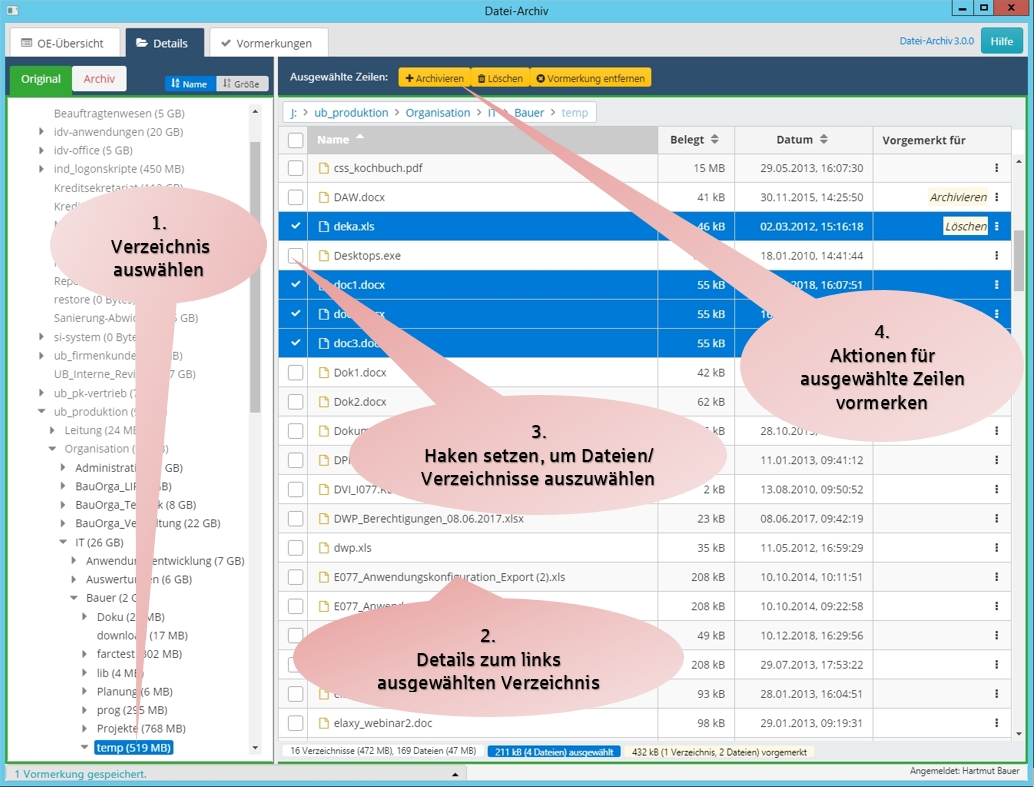
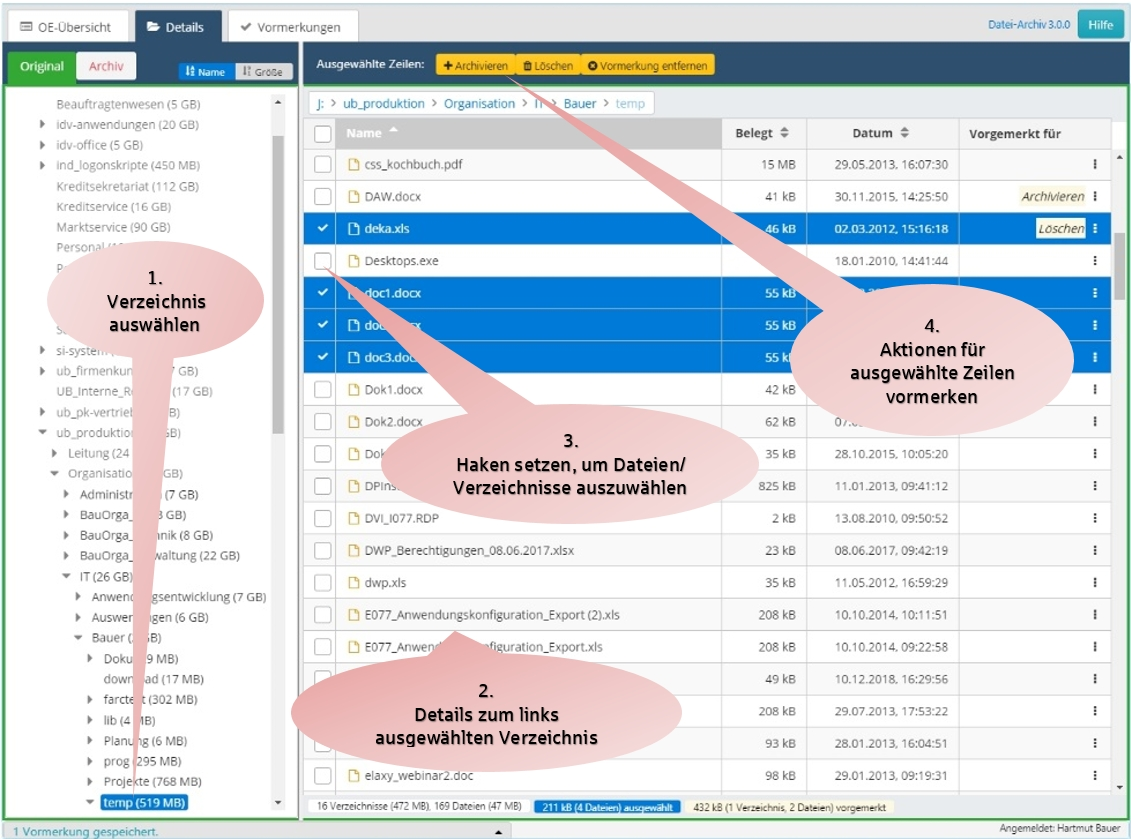
Hilfetexte

diff --git a/src/app/help/helpvorm/helpvorm.component.html b/src/app/help/helpvorm/helpvorm.component.html
@@ -1,9 +1,10 @@
 <h2>Der Bildschirm <button class="btn btn-outline-secondary pseudo-button"><span class="fa fa-fw fa-check"></span> Vormerkungen</button></h2>
+<img src="./resource/doku/vorm.jpg" height="70px" class="screenshot"/>
+<h4>Reiter <button class="btn btn-sm btn-outline-primary pseudo-button"><i class="fa fa-check"></i> Vorgemerkt</button></h4>
 <p>
-  In der Vormerkungen-Ansicht werden unter dem Reiter <button class="btn btn-sm btn-outline-primary pseudo-button"><i class="fa fa-check"></i> Vorgemerkt</button>
-  alle Lösch-, Archivieren- und Zurücksichern-Aktionen angezeigt, die in der
-  folgenden Nacht ausgeführt werden. Sie können hier einzelne Aktionen zurücknehmen oder gegebenenfalls sofort ausführen.
-  <br><img src="./resource/doku/vorm.jpg" height="200px" class="screenshot"/><br>
+  Hier sehen Sie Ihre vorgemerkten Lösch-, Archivieren- und Zurücksichern-Aktionen. Die Vormerkungen werden in der
+  folgenden Nacht ausgeführt. Sie können hier einzelne Aktionen zurücknehmen oder gegebenenfalls sofort ausführen.
+  <br><img src="./resource/doku/vormvor.jpg" height="160px" class="screenshot"/><br>
   Mit dem Knopf <button class="btn btn-link text-danger iconbtn pseudo-button"><i class="fa fa-times"></i></button>
   kann die jeweilige Vormerkung wieder entfernt werden. Mit dem gelben Kopf
   <button type="button" pButton icon="fa fa-trash" class="minibtn ui-button-warning pseudo-button"></button> können Sie alle vorgemerkten
@@ -14,21 +15,23 @@
   sofort im Hintergrund gestartet und in der Statuszeile am unteren Fensterrand erscheint ein entsprechender Hinweis
   (die Laufzeit ist abhängig von der zu verschiebenden/löschenden Datenmenge).
 </p>
-<p style="padding-top: 20px">
-  Unter dem Reiter <button class="btn btn-sm btn-outline-primary pseudo-button"><i class="fa fa-fw fa-check-circle"></i> Erfolgreich</button>
-  werden die erfolgreich ausgeführten Aktionen angezeigt.
+<h4>Reiter <button class="btn btn-sm btn-outline-primary pseudo-button"><i class="fa fa-fw fa-check-circle"></i> Erfolgreich</button>
+und <button class="btn btn-sm btn-outline-primary pseudo-button"><i class="fa fa-fw fa-minus-circle"></i> Fehlerhaft</button></h4>
+<p>
+  Es werden die erfolgreich ausgeführten
   <br><img src="./resource/doku/vormsucc.jpg" height="106px" class="screenshot"/><br>
-</p>
-<p style="padding-top: 15px">
-  Unter dem Reiter <button class="btn btn-sm btn-outline-primary pseudo-button"><i class="fa fa-fw fa-minus-circle"></i> Fehlerhaft</button>
-  werden die nicht erfolgreich ausgeführten Aktionen angezeigt.
+<!--</p>-->
+<!--<h4>Reiter <button class="btn btn-sm btn-outline-primary pseudo-button"><i class="fa fa-fw fa-minus-circle"></i> Fehlerhaft</button></h4>-->
+<!--<p>  -->
+  ... und die nicht erfolgreich ausgeführten Aktionen angezeigt.
   <br><img src="./resource/doku/vormerr.jpg" height="93px" class="screenshot"/><br>
 </p>
 <p>
   Mit dem gelben Kopf <button type="button" pButton icon="fa fa-trash" class="minibtn ui-button-warning pseudo-button"></button> können Sie
-  erledigte Aktionen aus der Liste entfernen (ansonsten werden sie nach einem Monat automatisch gelöscht).
+  einzelne oder alle erledigten Aktionen aus der Liste entfernen (ansonsten werden sie nach einem Monat automatisch gelöscht).
 </p>
 <p>
-  Der blaue Knopf  <button type="button" pButton icon="fa fa-file-text-o" class="minibtn pseudo-button "></button> zeigt ein Protokoll der Aktion an.
+  Der blaue Knopf  <button type="button" pButton icon="fa fa-file-text-o" class="minibtn pseudo-button "></button> zeigt ein Protokoll der
+  jeweiligen Aktion an.
   <br><img src="./resource/doku/vormlog.jpg" height="200px" class="screenshot"/><br>
 </p>

diff --git a/src/app/help/helptree/helptree.component.html b/src/app/help/helptree/helptree.component.html
@@ -9,7 +9,7 @@
   Bereits archivierte Daten finden Sie nach Klick auf den Knopf
   <button pButton type="button" label="Archiv" class="ui-button-secondary text-danger pseudo-button"></button>.
   Von dort können Sie Archiviertes zurücksichern. Beim Zurücksichern wird die entsprechende Datei an ihren
-  ursprünglichen Ort zurückkopiert.
+  ursprünglichen Ort zurückkopiert (und bleibt im Archiv erhalten).
   <br><img src="./resource/doku/tree_arc.jpg" height="140px" class="screenshot"/>
 </p>
 
@@ -17,7 +17,8 @@
   <li><strong>Baumansicht</strong><br>
     In der Baumansicht können Sie, wie im Windows Explorer, Verzeichnisse auswählen.
     Für jedes Verzeichnis wird der verbrauchte Speicherplatz angezeigt. Dadurch können Sie gezielt
-    die großen Dateien und Verzeichnisse angehen.<br>Rechts oben in der Baumansicht kann die Sortierung
+    die großen Dateien und Verzeichnisse angehen.<br>
+    Im Kopf der Baumansicht kann die Sortierung
     umgeschaltet werden: <p-selectButton [options]="farcService.sortButtons" class="pseudo-button" [ngModel]="true"></p-selectButton>
   </li>
   <li><strong>Detailansicht</strong><br>
@@ -36,11 +37,12 @@
     Vorgemerkte Dateien und Verzeichnisse werden in der letzten Spalte der Detailansicht gekennzeichnet. Die
     Vormerkungen werden in der nächsten Nacht ausgeführt.
     <br><img src="./resource/doku/tree_select.jpg" height="120px" class="screenshot"/><br>
-    Bereits vorgemerkte Aktionen können mit dem Menü &nbsp;&nbsp;<i class="fa fa-ellipsis-v"></i>&nbsp;&nbsp;
-    wieder entfernt oder sofort ausgeführt werden.
+    Bereits vorgemerkte Aktionen können über das Menü &nbsp;&nbsp;<i class="fa fa-ellipsis-v"></i>&nbsp;&nbsp;
+    wieder entfernt oder sofort ausgeführt werden, außderdem kann der Typ der Vormerkung geändert werden (Archiviern/Zurücksichern, Löschen).
     <br><img src="./resource/doku/tree_context.jpg" height="200px" class=""screenshot/><br><br>
-    Im Bildschirm <button (click)="helpService.goto('vorm')" class="btn btn-outline-secondary btn-sm"><span class="fa fa-check"></span> Vormerkungen</button>
-    können Sie alle Ihre vorgemerkten Aktionen bearbeiten.
   </li>
 </ol>
-<p>&nbsp;</p>
+<p>
+  Im Bildschirm <button (click)="helpService.goto('vorm')" class="btn btn-outline-secondary btn-sm"><span class="fa fa-check"></span> Vormerkungen</button>
+  können Sie alle Ihre vorgemerkten Aktionen bearbeiten.
+</p>

diff --git a/src/app/help/help/help.component.html b/src/app/help/help/help.component.html
@@ -1,11 +1,12 @@
-
-  <p-panel [styleClass]="'flex-col'" >
+<div class="flex-panel flex-content-fix help-panel">
+  <p-panel [styleClass]="'flex-col'">
     <p-header>
       <div class="flex-panel flex-row" >
         <div class="panel-left">Datei-Archiv Hilfe</div>
-        <div class=""panel-center></div>
+        <div class="panel-center"></div>
         <div class="panel-right"><p-tabMenu [model]="helpService.helpMenu" ></p-tabMenu></div>
       </div>
     </p-header>
-    <router-outlet ></router-outlet>
+    <router-outlet></router-outlet>
   </p-panel>
+</div>

diff --git a/src/app/help/help/help.component.ts b/src/app/help/help/help.component.ts
@@ -7,7 +7,7 @@ import { HelpService } from "../help.service";
   styleUrls: ["./help.component.css"]
 })
 export class HelpComponent implements OnInit {
-  @HostBinding("attr.class") cssClass = "flex-panel flex-content-fix";
+  // @HostBinding("attr.class") cssClass = "flex-panel flex-content-fix";
 
   constructor(public helpService: HelpService) { }
 

diff --git a/src/app/help/help/help.component.css b/src/app/help/help/help.component.css
@@ -1,3 +1,14 @@
+.help-panel {
+  background-color: var(--info);
+}
+:host ::ng-deep .ui-panel {
+  max-width: 1200px;
+  padding-left: 50px;
+}
+/* header */
+:host ::ng-deep .ui-panel .ui-panel-titlebar {
+  border: 0;
+}
 .panel-left {
   white-space: nowrap;
   font-weight: bold;

diff --git a/src/css/styles.css b/src/css/styles.css
@@ -192,7 +192,7 @@ body .ui-table .ui-table-tbody > tr > td > div {
 /* Abstand fuer Screenshots */
 .screenshot {
   margin-top: 12px;
-  margin-bottom: 24px;
+  margin-bottom: 12px;
 }
 
 /* f. Hilfetexte: Button, die nichts bewirken */

diff --git a/src/app/help/helpvorm/helpvorm.component.css b/src/app/help/helpvorm/helpvorm.component.css
@@ -1,0 +1,3 @@
+h4 {
+  margin-top: 30px;
+}
